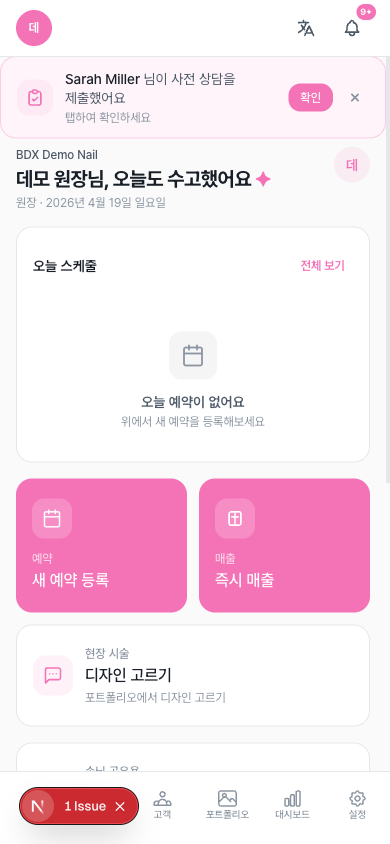
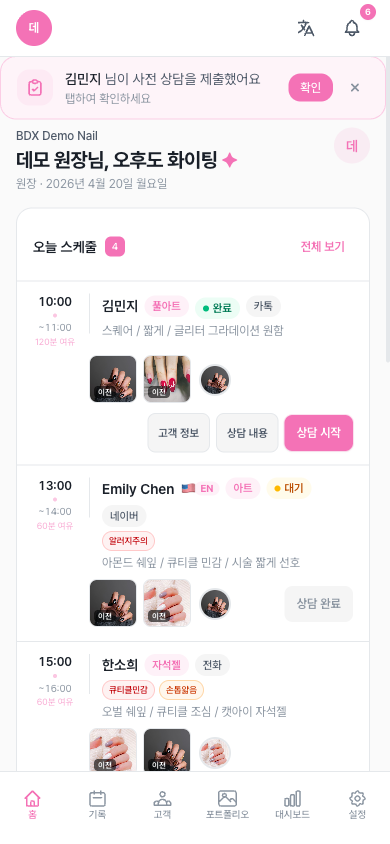
feat: 데모 모드 회원권 플로우 완성 + 데모 데이터 최신화
- field-mode settlement에 고객 자동 연결 (데모 + 예약 없이 진입 시 회원권 보유 데모 고객 선택)
- 고객 수동 연결/변경 모달 추가 (이름·전화번호 검색, 회원권 보유 우선 정렬)
- 회원권 결제 선택 시 최종 금액 0원 + "회원권 1회 차감" 뱃지
- customer-store: shop-demo 우회 제거 → membership_transactions 데모 모드에서도 DB 저장
- loadDemoCustomers: membership 필드 merge 추가 (DB 우선, 없으면 데모 시드)
- 한소희 데모 고객에 기본 active membership 시드 (10회권 7회 잔여)
- DEMO_RECORDS / DEMO_RESERVATIONS canonical 병합 단순화 (id 매칭 전체 교체)
- next.config.ts: devIndicators 비활성화
- guide 이미지 업데이트 반영

diff --git a/src/app/field-mode/settlement/page.tsx b/src/app/field-mode/settlement/page.tsx
@@ -11,6 +11,7 @@ import { calculatePreConsultPrice, ADDON_FIXED_PRICES } from '@/lib/pre-consult-
 import { useT } from '@/lib/i18n';
 import { cn } from '@/lib/cn';
 import { Button } from '@/components/ui/Button';
+import { Modal } from '@/components/ui/Modal';
 import { SettlementCard } from '@/components/field-mode/SettlementCard';
 import { CATEGORY_LABELS } from '@/lib/labels';
 import { useReservationStore } from '@/store/reservation-store';
@@ -76,9 +77,14 @@ export default function SettlementPage(): React.ReactElement | null {
     customerId,
     bookingId,
     setPaymentMethod,
+    setCustomerInfo,
     setRecordId,
     setPhase,
   } = useFieldModeStore();
+
+  const customers = useCustomerStore((s) => s.customers);
+  const [showCustomerPicker, setShowCustomerPicker] = useState(false);
+  const [customerQuery, setCustomerQuery] = useState('');
 
   const addQuickSaleRecord = useRecordsStore((s) => s.addQuickSaleRecord);
   const { activeDesignerId, currentShopId } = useAuthStore();
@@ -112,6 +118,22 @@ export default function SettlementPage(): React.ReactElement | null {
     }
   }, [selectedCategory, router]);
 
+  // 데모 모드에서 예약 없이 진입한 경우, 체험용으로 회원권 있는 데모 고객 자동 연결
+  useEffect(() => {
+    if (currentShopId !== 'shop-demo') return;
+    if (customerId) return;
+    const demoCustomer = customers.find(
+      (c) =>
+        c.shopId === 'shop-demo' &&
+        c.membership &&
+        c.membership.status === 'active' &&
+        c.membership.remainingSessions > 0,
+    );
+    if (demoCustomer) {
+      setCustomerInfo(demoCustomer.name, demoCustomer.phone, demoCustomer.id);
+    }
+  }, [currentShopId, customerId, customers, setCustomerInfo]);
+
   // ── Price calculation ────────────────────────────────────────────────────────
 
   const baseEstimate = useMemo(() => {
@@ -129,7 +151,10 @@ export default function SettlementPage(): React.ReactElement | null {
   const inTreatmentTotal = inTreatmentAddons.reduce((s, a) => s + a.amount, 0);
   const subtotal = (baseEstimate?.minTotal ?? 0) + inTreatmentTotal;
   const discountAmount = discountPercent > 0 ? Math.round(subtotal * discountPercent / 100) : 0;
-  const finalPrice = Math.max(0, subtotal - discountAmount - depositApplied);
+  const isMembershipPayment = paymentMethod === 'membership' && canUseMembership;
+  const finalPrice = isMembershipPayment
+    ? 0
+    : Math.max(0, subtotal - discountAmount - depositApplied);
 
   // ── Treatment duration ───────────────────────────────────────────────────────
 
@@ -433,14 +458,25 @@ export default function SettlementPage(): React.ReactElement | null {
             <p className="text-sm font-medium text-text-secondary mb-1">
               {t('fieldMode.finalTotal')}
             </p>
-            <div className="flex items-baseline gap-2">
+            <div className="flex items-baseline gap-2 flex-wrap">
               <p className="text-3xl font-bold text-primary tracking-tight">
                 ₩{finalPrice.toLocaleString()}
               </p>
-              {(discountPercent > 0 || depositApplied > 0) && (
-                <p className="text-sm text-text-muted line-through">
-                  ₩{subtotal.toLocaleString()}
-                </p>
+              {isMembershipPayment ? (
+                <>
+                  <p className="text-sm text-text-muted line-through">
+                    ₩{subtotal.toLocaleString()}
+                  </p>
+                  <span className="rounded-full bg-success/10 text-success text-[10px] font-bold px-2 py-0.5 border border-success/20">
+                    회원권 1회 차감
+                  </span>
+                </>
+              ) : (
+                (discountPercent > 0 || depositApplied > 0) && (
+                  <p className="text-sm text-text-muted line-through">
+                    ₩{subtotal.toLocaleString()}
+                  </p>
+                )
               )}
             </div>
           </div>
@@ -512,14 +548,37 @@ export default function SettlementPage(): React.ReactElement | null {
             </div>
             {/* 회원권 비활성 안내 */}
             {!canUseMembership && (
+              <div className="mt-2 px-1 flex flex-wrap items-center gap-x-2 gap-y-1">
+                <p className="text-[11px] text-text-muted">
+                  {!customerId
+                    ? '회원권 결제를 사용하려면 고객을 연결해 주세요'
+                    : !customerMembership
+                      ? '이 고객은 등록된 회원권이 없어요 · 고객 카드에서 회원권을 등록해보세요'
+                      : customerMembership.status !== 'active'
+                        ? '이 고객의 회원권은 만료되었거나 소진되었어요'
+                        : '이 고객의 회원권 잔여 횟수가 없어요'}
+                </p>
+                {!customerId && (
+                  <button
+                    type="button"
+                    onClick={() => setShowCustomerPicker(true)}
+                    className="text-[11px] font-semibold text-primary hover:underline"
+                  >
+                    고객 연결하기
+                  </button>
+                )}
+              </div>
+            )}
+            {customerId && customerName && (
               <p className="mt-2 px-1 text-[11px] text-text-muted">
-                {!customerId
-                  ? '회원권 결제는 고객 정보가 등록된 예약에서만 가능해요'
-                  : !customerMembership
-                    ? '이 고객은 등록된 회원권이 없어요 · 고객 카드에서 회원권을 등록해보세요'
-                    : customerMembership.status !== 'active'
-                      ? '이 고객의 회원권은 만료되었거나 소진되었어요'
-                      : '이 고객의 회원권 잔여 횟수가 없어요'}
+                현재 고객: <span className="font-semibold text-text">{customerName}</span>{' '}
+                <button
+                  type="button"
+                  onClick={() => setShowCustomerPicker(true)}
+                  className="text-primary hover:underline font-medium"
+                >
+                  변경
+                </button>
               </p>
             )}
           </div>
@@ -560,6 +619,73 @@ export default function SettlementPage(): React.ReactElement | null {
           {t('fieldMode.paymentComplete')}
         </Button>
       </div>
+
+      {/* Customer picker modal */}
+      <Modal
+        isOpen={showCustomerPicker}
+        onClose={() => {
+          setShowCustomerPicker(false);
+          setCustomerQuery('');
+        }}
+        title="고객 연결"
+      >
+        <div className="px-5 py-4 flex flex-col gap-3">
+          <input
+            type="text"
+            value={customerQuery}
+            onChange={(e) => setCustomerQuery(e.target.value)}
+            placeholder="이름 또는 전화번호로 검색"
+            className="w-full rounded-xl border border-border bg-surface px-4 py-3 text-sm text-text placeholder:text-text-muted focus:border-primary focus:outline-none"
+            autoFocus
+          />
+          <div className="flex flex-col gap-1 max-h-80 overflow-y-auto">
+            {(() => {
+              const q = customerQuery.trim().toLowerCase();
+              const list = q
+                ? customers.filter(
+                    (c) =>
+                      c.name.toLowerCase().includes(q) ||
+                      c.phone.replace(/[^0-9]/g, '').includes(q.replace(/[^0-9]/g, '')),
+                  )
+                : customers;
+              const sorted = [...list].sort((a, b) => {
+                const aHas = a.membership && a.membership.status === 'active' && a.membership.remainingSessions > 0;
+                const bHas = b.membership && b.membership.status === 'active' && b.membership.remainingSessions > 0;
+                if (aHas !== bHas) return aHas ? -1 : 1;
+                return a.name.localeCompare(b.name, 'ko');
+              });
+              if (sorted.length === 0) {
+                return <p className="text-sm text-text-muted py-6 text-center">일치하는 고객이 없어요</p>;
+              }
+              return sorted.slice(0, 30).map((c) => {
+                const activeMb = c.membership && c.membership.status === 'active' && c.membership.remainingSessions > 0;
+                return (
+                  <button
+                    key={c.id}
+                    type="button"
+                    onClick={() => {
+                      setCustomerInfo(c.name, c.phone, c.id);
+                      setShowCustomerPicker(false);
+                      setCustomerQuery('');
+                    }}
+                    className="flex items-center justify-between rounded-xl border border-border bg-surface px-3 py-2.5 hover:bg-surface-alt text-left transition-colors"
+                  >
+                    <div className="min-w-0">
+                      <p className="text-sm font-medium text-text truncate">{c.name}</p>
+                      <p className="text-[11px] text-text-muted">{c.phone}</p>
+                    </div>
+                    {activeMb && c.membership && (
+                      <span className="rounded-full bg-success/10 text-success text-[10px] font-bold px-2 py-0.5 border border-success/20 tabular-nums flex-shrink-0 ml-2">
+                        회원권 {c.membership.remainingSessions}/{c.membership.totalSessions}
+                      </span>
+                    )}
+                  </button>
+                );
+              });
+            })()}
+          </div>
+        </div>
+      </Modal>
     </div>
   );
 }

diff --git a/src/store/customer-store.ts b/src/store/customer-store.ts
@@ -274,6 +274,7 @@ async function loadDemoCustomers(customers: Customer[], shopId: string | null): 
   // Merge demo data into existing customers.
   // - preference / durationPreference: demo 값 우선
   // - tags: 기존 tags가 비어있으면 demo 시드를 채워넣음 (수동 추가한 태그는 유지)
+  // - membership: 기존 membership이 없으면 demo 시드를 채워넣음 (데모 회원권 체험용)
   const merged = customers.map((c) => {
     const demo = demoMap.get(c.id);
     if (!demo) return c;
@@ -282,6 +283,7 @@ async function loadDemoCustomers(customers: Customer[], shopId: string | null): 
       preference: demo.preference ?? c.preference,
       durationPreference: demo.durationPreference ?? c.durationPreference,
       tags: (c.tags && c.tags.length > 0) ? c.tags : (demo.tags ?? []),
+      membership: c.membership ?? demo.membership,
     };
   });
   const existingIds = new Set(merged.map((c) => c.id));
@@ -477,7 +479,7 @@ export const useCustomerStore = create<CustomerStore>()(
         if (updated) {
           dbUpsertCustomer(updated).catch(console.error);
           const shopId = useAuthStore.getState().currentShopId;
-          if (shopId && shopId !== 'shop-demo') {
+          if (shopId) {
             dbInsertMembershipTransaction({
               id: generateId('txn'),
               customerId,
@@ -527,7 +529,7 @@ export const useCustomerStore = create<CustomerStore>()(
         if (updated) {
           dbUpsertCustomer(updated).catch(console.error);
           const shopId = useAuthStore.getState().currentShopId;
-          if (shopId && shopId !== 'shop-demo') {
+          if (shopId) {
             dbInsertMembershipTransaction({
               id: txnId,
               customerId,

diff --git a/src/store/reservation-store.ts b/src/store/reservation-store.ts
@@ -39,20 +39,9 @@ export const useReservationStore = create<ReservationStore>()(
         if (currentShopId === 'shop-demo') {
           const { DEMO_RESERVATIONS } = await import('@/data/mock-demo-data');
           const demoMap = new Map(DEMO_RESERVATIONS.map((r) => [r.id, r]));
-          // Demo data always wins for key fields
-          const updated = dbReservations.map((r) => {
-            const demo = demoMap.get(r.id);
-            if (!demo) return r;
-            return {
-              ...r,
-              requestNote: demo.requestNote ?? r.requestNote,
-              serviceLabel: demo.serviceLabel ?? r.serviceLabel,
-              customerId: demo.customerId ?? r.customerId,
-              language: demo.language ?? r.language,
-              consultationLinkSentAt: demo.consultationLinkSentAt ?? r.consultationLinkSentAt,
-              preConsultationCompletedAt: demo.preConsultationCompletedAt ?? r.preConsultationCompletedAt,
-            };
-          });
+          // demo-* IDs: DEMO_RESERVATIONS is canonical (날짜·상태·디자이너 전부 최신화)
+          // 사용자가 만든 booking-* ID는 DB 그대로 유지
+          const updated = dbReservations.map((r) => demoMap.get(r.id) ?? r);
           const existingIds = new Set(updated.map((r) => r.id));
           const merged = [
             ...updated,

diff --git a/src/store/records-store.ts b/src/store/records-store.ts
@@ -56,9 +56,12 @@ export const useRecordsStore = create<RecordsStore>()(
         const dbRecords = await fetchConsultationRecords(currentShopId);
         if (currentShopId === 'shop-demo') {
           const { DEMO_RECORDS } = await import('@/data/mock-demo-data');
-          const existingIds = new Set(dbRecords.map((r) => r.id));
+          const demoMap = new Map(DEMO_RECORDS.map((r) => [r.id, r]));
+          // demo-* IDs: DEMO_RECORDS canonical (매번 today 기준 재계산된 날짜 적용)
+          const updated = dbRecords.map((r) => demoMap.get(r.id) ?? r);
+          const existingIds = new Set(updated.map((r) => r.id));
           const merged = [
-            ...dbRecords,
+            ...updated,
             ...DEMO_RECORDS.filter((r) => !existingIds.has(r.id)),
           ];
           set({ records: merged, _dbReady: true });

diff --git a/src/data/mock-demo-data.ts b/src/data/mock-demo-data.ts
@@ -126,6 +126,19 @@ export const DEMO_CUSTOMERS: Customer[] = [
     preferredLanguage: 'ko',
     durationPreference: 'normal' as const,
     preference: { customerId: 'demo-c-003', preferredShape: '오벌', preferredLength: '보통', cuticleSensitivity: 'sensitive' as const, updatedAt: isoKR(NOW) },
+    membership: {
+      id: 'demo-mb-c003',
+      totalSessions: 10,
+      usedSessions: 3,
+      remainingSessions: 7,
+      purchaseAmount: 500000,
+      purchaseDate: '2026-01-10',
+      expiryDate: '2027-01-10',
+      status: 'active',
+      planId: 'demo-mp-001',
+      planName: '50만원 10회권',
+      transactions: [],
+    },
     createdAt: isoKR('2025-09-10'),
     updatedAt: isoKR(NOW),
   },

diff --git a/next.config.ts b/next.config.ts
@@ -3,6 +3,7 @@ import type { NextConfig } from 'next'
 const nextConfig: NextConfig = {
   reactStrictMode: true,
   allowedDevOrigins: ['192.168.0.93'],
+  devIndicators: false,
   images: {
     remotePatterns: [
       {
